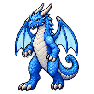
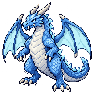
Smooth frost dragon walk to ten evenly spaced low-amplitude poses

diff --git a/design/enemies/dragon_frost/PROMPT.md b/design/enemies/dragon_frost/PROMPT.md
@@ -1,4 +1,9 @@
-Edit reference: existing BLUE FROST DRAGON sprite. Create ONE pixel-art sprite sheet with exactly SEVEN full-body dragon WALKING frames arranged in ONE HORIZONTAL ROW of seven evenly spaced cells on transparent background. Same character throughout: ivory horns and protruding fangs, blue scales, white belly, cyan back wings, curled tail, upright biped, same 3/4 front view. Intended each final frame94x94. Important correction: prior walk looked like a foot dragging along ground. This must be a clearly readable MARCHING WALK, with BOTH feet alternately lifted HIGH and returned to floor. Strong, natural visible hip/knee bends, NOT a foot merely translated sideways. Swing leg must have foot completely clear of ground by10-12 logical pixels with bent knee, ankle under knee and claws facing down/forward; supporting leg straight with foot firmly planted. Keep foot orientation natural, NEVER a horizontal flattened boot dragged toe-first. Body weight shifts subtly over planted supporting foot; body rises/falls only1 logical pixel. Seven poses: 1 LEFT knee bent raised, LEFT FOOT visibly HIGH under knee, RIGHT foot firmly planted. 2 LEFT foot moving forward and down, RIGHT remains planted. 3 LEFT foot contacts floor FORWARD and weight transfers, RIGHT heel lifts behind. 4 RIGHT knee bent raised, RIGHT FOOT visibly HIGH under knee, LEFT firmly planted. 5 RIGHT foot moving forward and down, LEFT remains planted. 6 RIGHT foot contacts floor FORWARD and weight transfers, LEFT heel lifts behind. 7 LEFT knee bending and LEFT foot lifting toward pose1, RIGHT planted. LEFT/RIGHT refer to VIEWER'S LEFT and VIEWER'S RIGHT. Both legs must be fully visible and separated in all seven poses. Raised foot poses1 and4 must be obviously mirrored leg actions, equally high. At least three frames clearly show each side's foot in different phases. NO foot sliding/skating, NO dragging toe, NO extended straight low swing leg, NO one-leg hopping. This is brisk confident bipedal walking in place, body stationary in sheet, not lunging. Same scale, same face, same fixed wings and tail shape across all seven; frame7 returns smoothly to frame1 without duplicated endpoint. Preserve original style and sprite proportions, crisp square pixel clusters and distinct color ramps. Entire horns, wings, tail, feet inside each cell with generous clear transparent gap separating cells; avoid wings touching other frames. Camera, head position and torso consistent. NO text, numbers, labels, separators, floor, external shadow, extra sprites or background/checkerboard. Actual alpha transparency. One sprite sheet asset, seven full-body poses.
+Use reference image as EXACT blue frost dragon identity and pixel art style. Create ONE genuine transparent sprite sheet asset with EXACTLY TEN walking frames in TWO ROWS OF FIVE equal cells (5 columns x2rows). Cells logically94x94; read top row frames1-5, bottom row frames6-10. This is a SLOW CALM NATURAL TWO-LEGGED WALK IN PLACE. Prior animation looked frantic foot flapping; fix by modest foot lift and smooth small increments, not high-knee marching. Keep original ivory horns, protruding fangs, blue scales, white belly, cyan bat wings and curled tail. Same 3/4front view facingleft, BOTH legs always visible. ALL ten bodies, head heights, wings, tail and arms remain EXACTLY the same size, position and shape; no bob, no wing or arm flapping. ONLY articulated legs below hip joints animate. One full cycle ten evenly spaced phases,36degrees apart; phaseoffset legs180degrees. Foot is lifted at most4logical pixels aboveground during swing, knee bends naturally and modestly, toes maintain stable orientation and do NOT wiggle or flap. Supporting foot stays flat; smooth hip-knee-ankle linkage, not a detached foot sliding sideways. Equal calm strides in both legs, equal action phases in both halves. Specific poses:1viewerLEFT foot forward contacts floor, RIGHT back toe on floor.2LEFT supports, RIGHT begins slight knee bend and heel lift.3RIGHT foot passes under body with foot clearly4px abovefloor, LEFT supports.4RIGHT foot swings a little forward and down with3px clearance.5RIGHT foot nearly contacts forward floor with1px clearance.6RIGHT forward foot contacts floor, LEFT back toe onfloor.7RIGHT supports, LEFT begins slight knee bend and heel lift.8LEFT foot passes under body with4px clearance, RIGHT supports.9LEFT foot swings forward/down with3px clearance.10LEFT almost contacts forward floor with1px clearance, then smoothreturn toframe1. Positions6-10 must reverse which leg acts compared1-5; do NOT move same leg bothhalves. Left/right defined by VIEWER image sides, foreground leg onRIGHT of white belly must lift inframes3-5, farlegLEFT must lift8-10. Gentle ankle orientation consistent, no exaggerated highstep, no hopping, no kicking, no foot stretching. Do NOT repeat same pose or duplicate endpoint. Maintain fixed body anchor and planted foot baseline in every cell. Ten fullbody sprites uniformly scaled, completely within own cell, generous TRANSPARENT GAPS between cells and rows; wings cannot touch neighboring cell. No captions, numbers, borders, grid, background/checkerboard, ground or externalshadow. Preserve crisp square pixel clusters, no smoothing or redesign. Exactly2rowsx5columns,10frames total.
 
-Targeted correction:
-Edit ONLY lower legs in CELLS4,5,6 of this seven-cell dragon sprite sheet. Keep cells1,2,3,7 and all heads, torsos, arms, wings, tails pixel-identical. There is a concrete error: in CELL4 the FAR leg on LEFT of belly is raised, but the NEAR FOREGROUND LEG ON RIGHT OF WHITE BELLY remains straight and planted. REVERSE WHICH LEG IS RAISED for cells4,5,6. The near foreground leg is the larger blue thigh directly BELOW THE RIGHT ARM/CLAW and on the RIGHT SIDE of the white belly. CELL4: lift this large near/right thigh UP and FORWARD toward lower belly; bend its knee strongly, fold its calf, FOOT with3ivory claws must be HIGH about one foot-height above ground, directly under raised knee. Meanwhile far/LEFT leg straight planted on floor as support. CELL5: this same NEAR/RIGHT foot swings forward/down while still clearly airborne, LEFT supports. CELL6: NEAR/RIGHT foot lands forward on floor, LEFT heel starts lift to return tocell7. In cell4 there must be NO FOOT ON FLOOR at the usual near/right-foot location. Only LEFT foot on floor. This is the opposite support fromcell1 (cell1 left foot raised/right planted). Important: raising only the left foot again is WRONG. Inspect left/right placement relative to the WHITE BELLY and TWO ARMS. Make both halves of cycle true alternating high-knee walking, not one-leg hopping. Keep exactly SEVEN equal cells in ONE HORIZONTAL ROW, transparent background, same original blue dragon pixel art, 94x94 logical sprite proportions. No labels, no new characters, no flipping or rotation, no floor or backdrop. Change only leg poses in cells4-6, preserve all else. Real alpha transparency.
+Correction 1:
+Edit this exact TEN-FRAME sheet, 2rows x5columns. Read frames1-5toprow,6-10bottomrow. CRITICAL error to fix: BOTH frame3 and frame8 raise the FAR LEFT leg! A real walk MUST alternate legs. Keep all upper bodies pixel-identical, no movement or redesign. Preserve frames1,7,8,9,10 leg poses. CHANGE foreground/NEAR leg (large blue thigh BELOW RIGHT ARM and RIGHT of WHITE BELLY) in frames2,3,4,5,6: frame2 near/right heel begins lift while far/left planted. frame3 NEAR/RIGHT knee slightly bent and its foot COMPLETELY OFF FLOOR by4logicalpixels, LEFT foot firmly planted and supporting. Frame3 must have NO FOOT at its usual right-hand ground location. frame4 NEAR/RIGHT foot swings forward slightly, only3px above floor, far/LEFT straight planted. frame5 NEAR/RIGHT foot moves forward/down, toes1px abovefloor. frame6 NEAR/RIGHT FOOT FORWARD PLANTED onfloor and far/LEFT back heel just beginning lift. Crucial mirrored support: frame3 has RIGHT FOOT RAISED/LEFT FOOT PLANTED, while frame8 has LEFT FOOT RAISED/RIGHT FOOT PLANTED. Distinguish legs RELATIVE TO WHITE BELLY, not anatomical names. RIGHT leg means large thigh onrightsideofbelly, leftlegmeanssmaller thigh onleftsideofbelly. Moderate knee bends, LOW footclearance maximum4px, NO high-knee march or flappingtoe. Supportingfeetflat, toes orientationsteady. Gentle slowwalk in place, same head, torso, tail and wings exactlysamecoordinatesallframes. Allsprites fully fit equallyspaced cells with cleartransparentgaps. 94x94logicalpixels each, truepixelart. No labels or grid. Actual transparent background. Change lowerlegposes of frames2-6 ONLY. ONE sprite sheet with exactly10frames 2rows5columns.
+
+Correction 2:
+Image1 EDIT TARGET: 10-frame dragon sheet 2rows5columns. Image2 SUPPORTING POSE REFERENCE: 7-frame sheet one row, its FOURTH dragon correctly raises the large NEAR/foreground leg on RIGHT of white belly. Correct ONLY THIRD dragon in TOP ROW of Image1. CURRENT ERROR: it raises smaller far leg onLEFT while large near leg remains planted. Replace ONLY its LOWER LEGS with the support configuration shown by FOURTH dragon in Image2: LEFT foot planted, LARGE NEAR RIGHT THIGH slightly raised, RIGHT KNEE bent, RIGHT FOOT off floor. Make the RIGHT FOOT lift only HALF the height shown in reference2 (calmwalk, maximum4logicalpixels offground). Keep natural articulated knee/ankle, ivory claws. Its LEFT smaller far leg must be straight planted, NOT lifted. Everything outside lowerlegs of top-row3 remains unchanged: all other9dragons, their heads bodies wings arms tails and the sheet layout exactlysame. No highmarch. Exactly10frames2rows5columns, preserve genuine transparent background and pixelart. Viewer right leg is the large blue thigh directly below right arm, beside white belly. Use second image's FOURTH pose to understand which leg is intended. Output edited Image1 only.
+
+最終調整：生成された歩行構成を参考に元画像の脚の画素を切り分け、腰を固定した変形で10等分の軌道へ調整。両脚の位相を180度ずらし、足先の前後幅6px・持ち上げ最大4px。上半身は元画像を維持。

diff --git a/design/enemies/dragon_frost/README.md b/design/enemies/dragon_frost/README.md
@@ -1,9 +1,9 @@
 # 青いドラゴンの歩行画像
 
-元画像：design/enemies/dragon/candidates/dragon_03_frost.png。内蔵image_genで7コマの歩行シートを生成し、頭の位置と縮小率をそろえて94×94pxの透明PNGに分割しています。
+元画像：design/enemies/dragon/candidates/dragon_03_frost.png。94×94pxの透明PNGを10枚。数字順にループします。
 
-move/dragon_frost_1.png～dragon_frost_7.pngを1→2→3→4→5→6→7→1の順に繰り返します。確認GIFは各コマ0.14秒、1周0.98秒です。
+生成した歩行構成を参考に元画像の形を保ち、腰を固定した脚の変形で10等分の周期へ調整しました。左右の脚は180度ずらして交互に動きます。足先の前後幅は6px、持ち上げは最大4px。頭・翼・胴体の揺れを抑えています。
 
-preview/walk_94.gifは原寸の透明GIF、preview/walk_3x.gifは3倍表示、preview/frames.pngは2倍表示のコマ一覧です。PNGがゲーム用の素材です。
+確認GIFは1コマ0.14秒、1周1.4秒。preview/walk_94.gifは原寸、preview/walk_3x.gifは3倍表示、preview/frames.pngは2倍表示の10枚一覧です。
 
-ゲームへの組み込み・マスターの変更は行っていません。採用時はenemy_keyにdragon_frostを使い、animationシートの移動frame_indexに1～7を設定して、build-animation-manifest.cmdを実行します。
+採用時はanimationシートでdragon_frostの移動frame_indexを1～10に設定し、build-animation-manifest.cmdを実行します。
